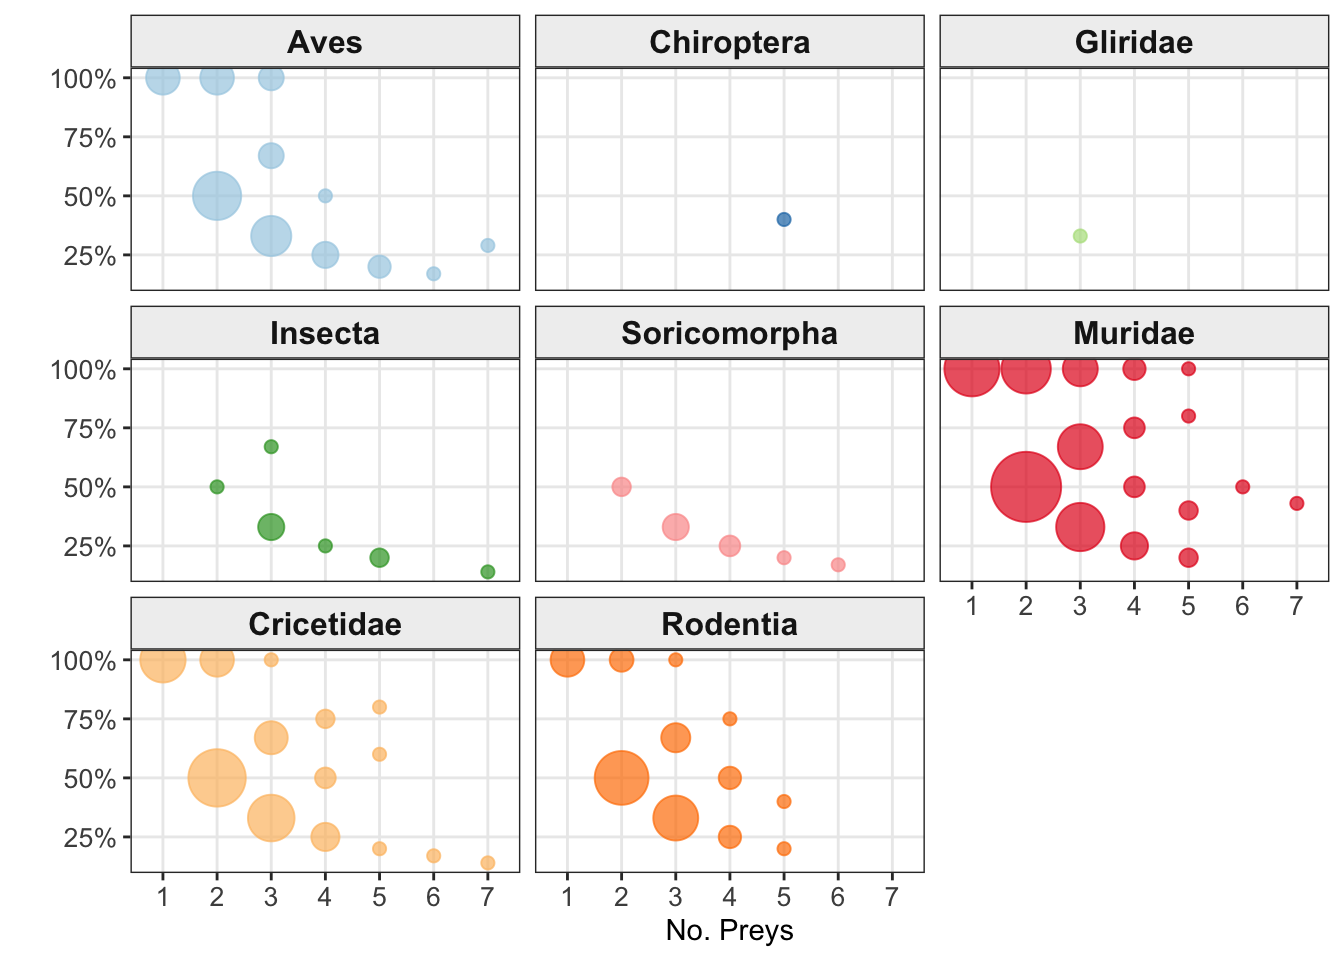
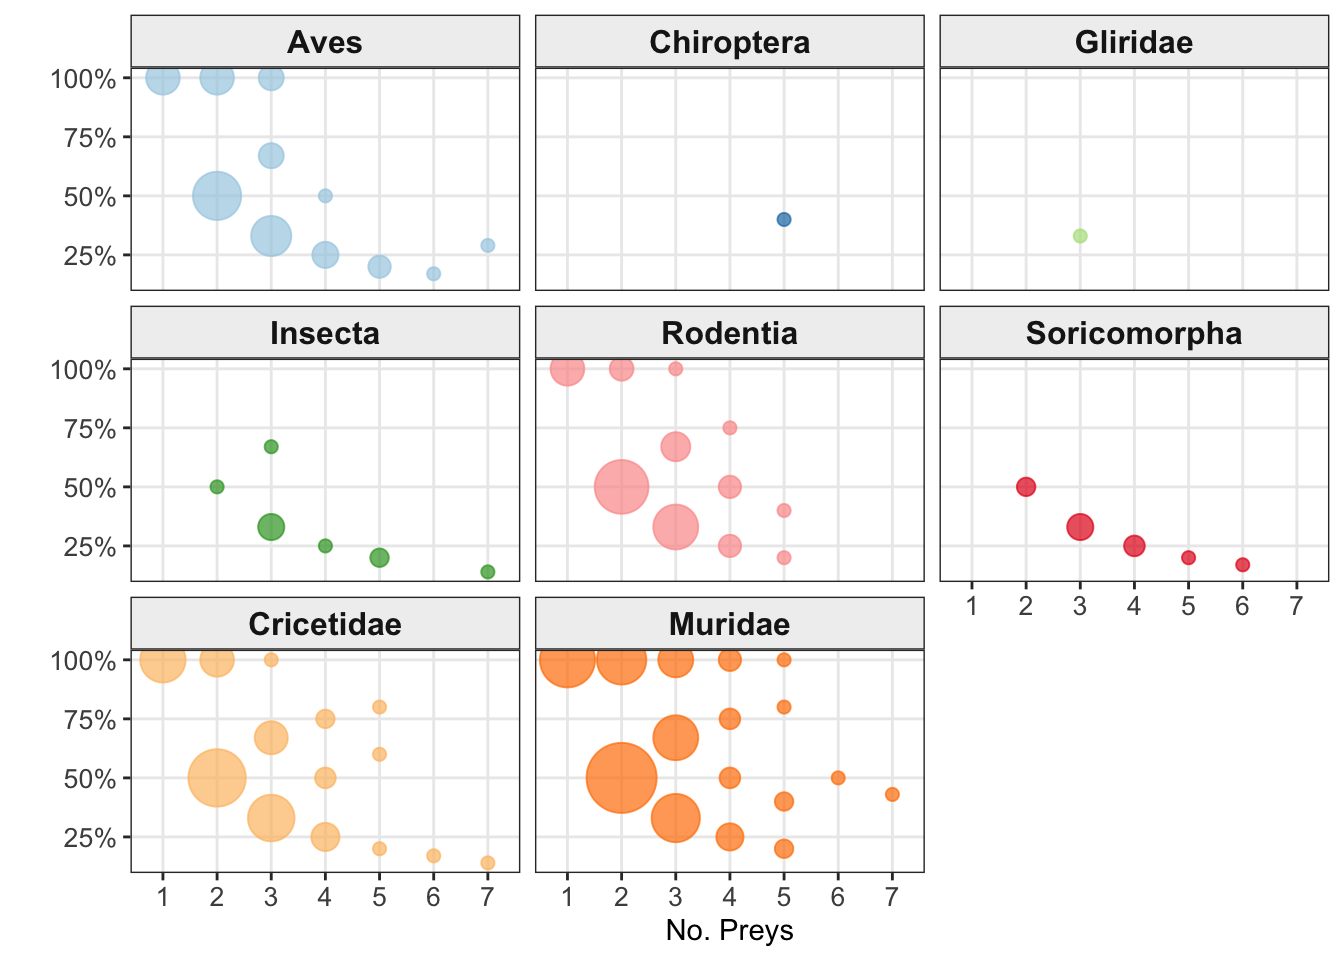
modifiche minori

diff --git a/reports/script/000.manuscript.html b/reports/script/000.manuscript.html
@@ -280,9 +280,9 @@ $ month             &lt;ord&gt; Sep, Sep, Sep, Sep, Sep, Sep, Sep, Sep, Sep, Sep
   &lt;fct&gt;            &lt;dbl&gt;    &lt;dbl&gt; &lt;dbl&gt;   &lt;dbl&gt;   &lt;dbl&gt;   &lt;dbl&gt;   &lt;dbl&gt;   &lt;dbl&gt;
 1 Aves           0.0990   0.0620   0.04  0.0864  0.111   0.25    0.329   0.299 
 2 Insecta        0.00990  0.00775 NA    NA      NA       0.0333  0.0571  0.0149
-3 Muridae        0.465    0.512    0.57  0.444   0.267   0.367   0.429   0.493 
+3 Rodentia       0.139    0.209    0.22  0.148   0.156   0.1     0.0857  0.0746
 4 Cricetidae     0.287    0.209    0.17  0.272   0.422   0.233   0.0857  0.119 
-5 Rodentia       0.139    0.209    0.22  0.148   0.156   0.1     0.0857  0.0746
+5 Muridae        0.465    0.512    0.57  0.444   0.267   0.367   0.429   0.493 
 6 Chiroptera    NA       NA       NA     0.0247 NA      NA      NA      NA     
 7 Gliridae      NA       NA       NA     0.0123 NA      NA      NA      NA     
 8 Soricomorpha  NA       NA       NA     0.0123  0.0444  0.0167  0.0143 NA     
@@ -294,9 +294,9 @@ $ month             &lt;ord&gt; Sep, Sep, Sep, Sep, Sep, Sep, Sep, Sep, Sep, Sep
   &lt;fct&gt;            &lt;dbl&gt;   &lt;dbl&gt;   &lt;dbl&gt;    &lt;dbl&gt;
 1 Aves           0.0667  0.145    0.264   0.128  
 2 Insecta        0.00606 0.0108   0.0236  0.00984
-3 Muridae        0.515   0.376    0.470   0.430  
+3 Rodentia       0.191   0.134    0.0980  0.154  
 4 Cricetidae     0.221   0.296    0.132   0.259  
-5 Rodentia       0.191   0.134    0.0980  0.154  
+5 Muridae        0.515   0.376    0.470   0.430  
 6 Chiroptera    NA       0.0108  NA      NA      
 7 Gliridae      NA       0.00538 NA      NA      
 8 Soricomorpha  NA       0.0215   0.0135  0.0197 </code></pre>
@@ -339,9 +339,9 @@ $ month             &lt;ord&gt; Sep, Sep, Sep, Sep, Sep, Sep, Sep, Sep, Sep, Sep
   &lt;fct&gt;          &lt;int&gt;  &lt;int&gt;  &lt;int&gt;  &lt;int&gt;
 1 Aves              22     27     78     39
 2 Insecta            2      2      7      3
-3 Muridae          170     70    139    131
+3 Rodentia          63     25     29     47
 4 Cricetidae        73     55     39     79
-5 Rodentia          63     25     29     47
+5 Muridae          170     70    139    131
 6 Chiroptera        NA      2     NA     NA
 7 Gliridae          NA      1     NA     NA
 8 Soricomorpha      NA      4      4      6</code></pre>
